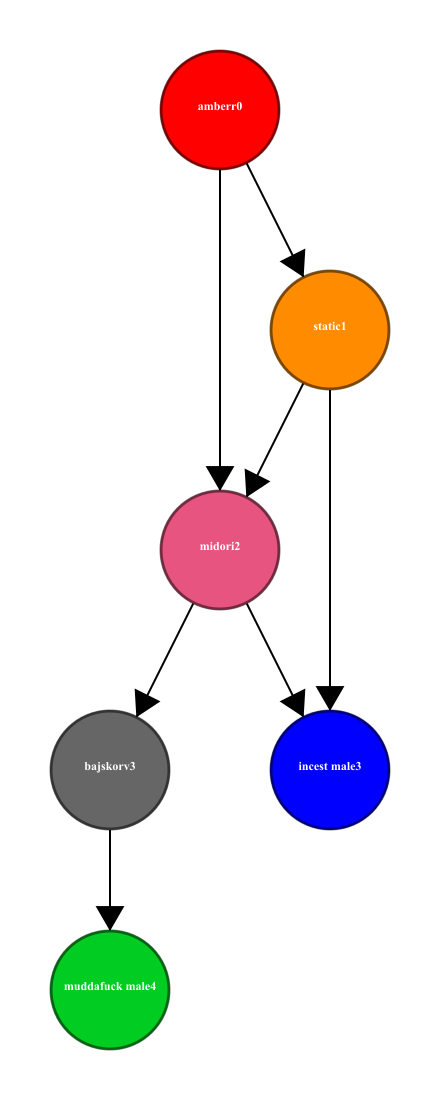
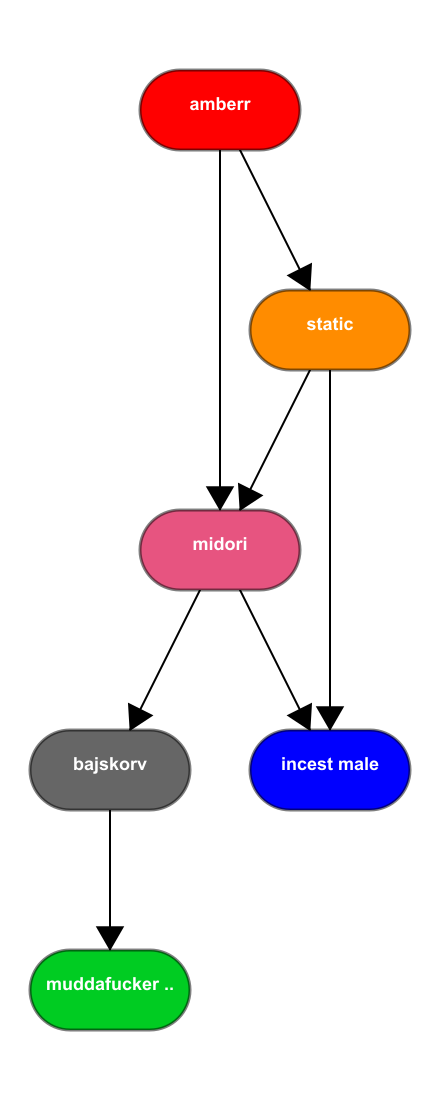
new renderer

diff --git a/render.ts b/render.ts
@@ -6,6 +6,10 @@ import { NodeData } from "./node-data";
 import sharp from 'sharp';
 import fs from "fs";
 
+function truncate(str: string, n: number) {
+    return (str.length > n) ? str.slice(0, n - 1) + '..' : str;
+};
+
 class Render {
     private svg;
     private svgHelper;
@@ -43,6 +47,13 @@ class Render {
             .x((d) => d[0] * xMultiplier)
             .y((d) => d[1] * yMultiplier);
 
+        // Background color
+        this.svg
+            .append("rect")
+            .attr("width", "100%")
+            .attr("height", "100%")
+            .attr("fill", "white");
+
         // Plot edges
         this.svg
             .append("g")
@@ -77,7 +88,7 @@ class Render {
             });
 
         // Plot node circles
-        nodes
+        /*nodes
             .append("circle")
             .attr("r", nodeRadius)
             .attr("fill", (n) => n.data.color);
@@ -88,21 +99,58 @@ class Render {
             .attr("fill", "none")
             .attr("stroke", "black")
             .attr("stroke-width", "3px")
+            .attr("opacity", ".5");*/
+
+        /*nodes
+            .append("ellipse")
+            .attr("rx", 80)
+            .attr("ry", 50)
+            .attr("fill", (n) => n.data.color);
+    
+        nodes
+            .append("ellipse")
+            .attr("rx", 80)
+            .attr("ry", 50)
+            .attr("fill", "none")
+            .attr("stroke", "black")
+            .attr("stroke-width", "3px")
+            .attr("opacity", ".5");*/
+
+
+        nodes
+            .append("rect")
+            .attr("x", -80)
+            .attr("y", -40)
+            .attr("rx", 40)
+            .attr("width", 160)
+            .attr("height", 80)
+            .attr("fill", (n) => n.data.color);
+
+        nodes
+            .append("rect")
+            .attr("x", -80)
+            .attr("y", -40)
+            .attr("rx", 40)
+            .attr("width", 160)
+            .attr("height", 80)
+            .attr("fill", "none")
+            .attr("stroke", "black")
+            .attr("stroke-width", "3px")
             .attr("opacity", ".5");
 
         // Add text to nodes
         nodes
             .append("text")
-            .text((d) => d.data.name + d.value)
-            .attr("font-weight", "bold")
-            .attr("font-family", "sans-serif")
+            .text((d) => truncate(d.data.name, 13))
+            .attr("font-weight", "bolder")
+            .attr("font-family", "Arial, Helvetica, sans-serif")
             .attr("text-anchor", "middle")
             .attr("alignment-baseline", "middle")
             .attr("fill", "white")
-            .attr("font-size", "1em");
+            .attr("font-size", "18px");
 
         // Arrowheads
-        const arrow = d3.symbol().type(d3.symbolTriangle).size(nodeRadius * nodeRadius / 10.0);
+        const arrow = d3.symbol().type(d3.symbolTriangle).size(nodeRadius * nodeRadius / 16.0);
         this.svg.append('g')
             .selectAll('path')
             .data(this.dag.links())
@@ -114,7 +162,7 @@ class Render {
                 target
             }) => {
                 if (target.x && target.y && source.x && source.y) {
-                    const sx = source.x * xMultiplier;
+                    const sx: number = source.x * xMultiplier;
                     const sy = source.y * yMultiplier;
 
                     const tx = target.x * xMultiplier;
@@ -123,11 +171,21 @@ class Render {
                     const dx = sx - tx;
                     const dy = sy - ty;
 
-                    const scale = nodeRadius * 1.26 / Math.sqrt(dx * dx + dy * dy);
+                    let xPerY = 0;
+                    let yPerX = 0;
+
+                    if ((target.y - source.y) > 0) {
+                        xPerY = Math.abs(target.x - source.x) / (target.y - source.y);
+                    }
+                    if ((target.x - source.x) > 0) {
+                        yPerX = (target.y - source.y) / (target.x - source.x);
+                    }
+
+                    const scale = nodeRadius * 0.74 / Math.sqrt(dx * dx + dy * dy);
 
                     const angle = Math.atan2(-dy, -dx) * 180 / Math.PI + 90;
 
-                    return `translate(${tx + dx * scale}, ${ty + dy * scale}) rotate(${angle})`;
+                    return `translate(${tx + dx * scale + (dx / 50)}, ${ty + dy * scale + (xPerY * -8)}) rotate(${angle})`;
                 }
                 return ``
             })

diff --git a/javascripts/render.js b/javascripts/render.js
@@ -3,6 +3,10 @@ import { CreateSvg } from './create-svg.js';
 import * as d3 from "d3";
 import sharp from 'sharp';
 import fs from "fs";
+function truncate(str, n) {
+    return (str.length > n) ? str.slice(0, n - 1) + '..' : str;
+}
+;
 class Render {
     constructor(dag, xMultiplier, yMultiplier, nodeRadius) {
         const layout = sugiyama();
@@ -28,6 +32,12 @@ class Render {
             .curve(d3.curveCatmullRom)
             .x((d) => d[0] * xMultiplier)
             .y((d) => d[1] * yMultiplier);
+        // Background color
+        this.svg
+            .append("rect")
+            .attr("width", "100%")
+            .attr("height", "100%")
+            .attr("fill", "white");
         // Plot edges
         this.svg
             .append("g")
@@ -58,13 +68,47 @@ class Render {
             return '';
         });
         // Plot node circles
-        nodes
+        /*nodes
             .append("circle")
             .attr("r", nodeRadius)
             .attr("fill", (n) => n.data.color);
+
         nodes
             .append("circle")
             .attr("r", nodeRadius - 1)
+            .attr("fill", "none")
+            .attr("stroke", "black")
+            .attr("stroke-width", "3px")
+            .attr("opacity", ".5");*/
+        /*nodes
+            .append("ellipse")
+            .attr("rx", 80)
+            .attr("ry", 50)
+            .attr("fill", (n) => n.data.color);
+    
+        nodes
+            .append("ellipse")
+            .attr("rx", 80)
+            .attr("ry", 50)
+            .attr("fill", "none")
+            .attr("stroke", "black")
+            .attr("stroke-width", "3px")
+            .attr("opacity", ".5");*/
+        nodes
+            .append("rect")
+            .attr("x", -80)
+            .attr("y", -40)
+            .attr("rx", 40)
+            .attr("width", 160)
+            .attr("height", 80)
+            .attr("fill", (n) => n.data.color);
+        nodes
+            .append("rect")
+            .attr("x", -80)
+            .attr("y", -40)
+            .attr("rx", 40)
+            .attr("width", 160)
+            .attr("height", 80)
             .attr("fill", "none")
             .attr("stroke", "black")
             .attr("stroke-width", "3px")
@@ -72,15 +116,15 @@ class Render {
         // Add text to nodes
         nodes
             .append("text")
-            .text((d) => d.data.name + d.value)
-            .attr("font-weight", "bold")
-            .attr("font-family", "sans-serif")
+            .text((d) => truncate(d.data.name, 13))
+            .attr("font-weight", "bolder")
+            .attr("font-family", "Arial, Helvetica, sans-serif")
             .attr("text-anchor", "middle")
             .attr("alignment-baseline", "middle")
             .attr("fill", "white")
-            .attr("font-size", "1em");
+            .attr("font-size", "18px");
         // Arrowheads
-        const arrow = d3.symbol().type(d3.symbolTriangle).size(nodeRadius * nodeRadius / 10.0);
+        const arrow = d3.symbol().type(d3.symbolTriangle).size(nodeRadius * nodeRadius / 16.0);
         this.svg.append('g')
             .selectAll('path')
             .data(this.dag.links())
@@ -95,9 +139,17 @@ class Render {
                 const ty = target.y * yMultiplier;
                 const dx = sx - tx;
                 const dy = sy - ty;
-                const scale = nodeRadius * 1.26 / Math.sqrt(dx * dx + dy * dy);
+                let xPerY = 0;
+                let yPerX = 0;
+                if ((target.y - source.y) > 0) {
+                    xPerY = Math.abs(target.x - source.x) / (target.y - source.y);
+                }
+                if ((target.x - source.x) > 0) {
+                    yPerX = (target.y - source.y) / (target.x - source.x);
+                }
+                const scale = nodeRadius * 0.74 / Math.sqrt(dx * dx + dy * dy);
                 const angle = Math.atan2(-dy, -dx) * 180 / Math.PI + 90;
-                return `translate(${tx + dx * scale}, ${ty + dy * scale}) rotate(${angle})`;
+                return `translate(${tx + dx * scale + (dx / 50)}, ${ty + dy * scale + (xPerY * -8)}) rotate(${angle})`;
             }
             return ``;
         })

diff --git a/javascripts/main.js b/javascripts/main.js
@@ -14,6 +14,6 @@ const meNode = dagManager.getNode("2");
 if (meNode) {
     dagManager.getFamilyGenerations(meNode, 2);
 }
-const newRender = new Render(dagManager.getDag(), 220, 220, 60);
+const newRender = new Render(dagManager.getDag(), 220, 220, 75);
 newRender.createImage();
 //console.log(newRender.svgString());

diff --git a/main.ts b/main.ts
@@ -19,6 +19,6 @@ if (meNode) {
     dagManager.getFamilyGenerations(meNode, 2);
 }
 
-const newRender = new Render(dagManager.getDag(), 220, 220, 60);
+const newRender = new Render(dagManager.getDag(), 220, 220, 75);
 newRender.createImage();
 //console.log(newRender.svgString());

diff --git a/data.ts b/data.ts
@@ -39,7 +39,7 @@ const data: NodeData[] = [
     },
     {
         "id": "6",
-        "name": "muddafuck male",
+        "name": "muddafucker male",
         "parentIds": ["4"],
         "color": "#00CC22"
     },

diff --git a/javascripts/data.js b/javascripts/data.js
@@ -37,7 +37,7 @@ const data = [
     },
     {
         "id": "6",
-        "name": "muddafuck male",
+        "name": "muddafucker male",
         "parentIds": ["4"],
         "color": "#00CC22"
     },
